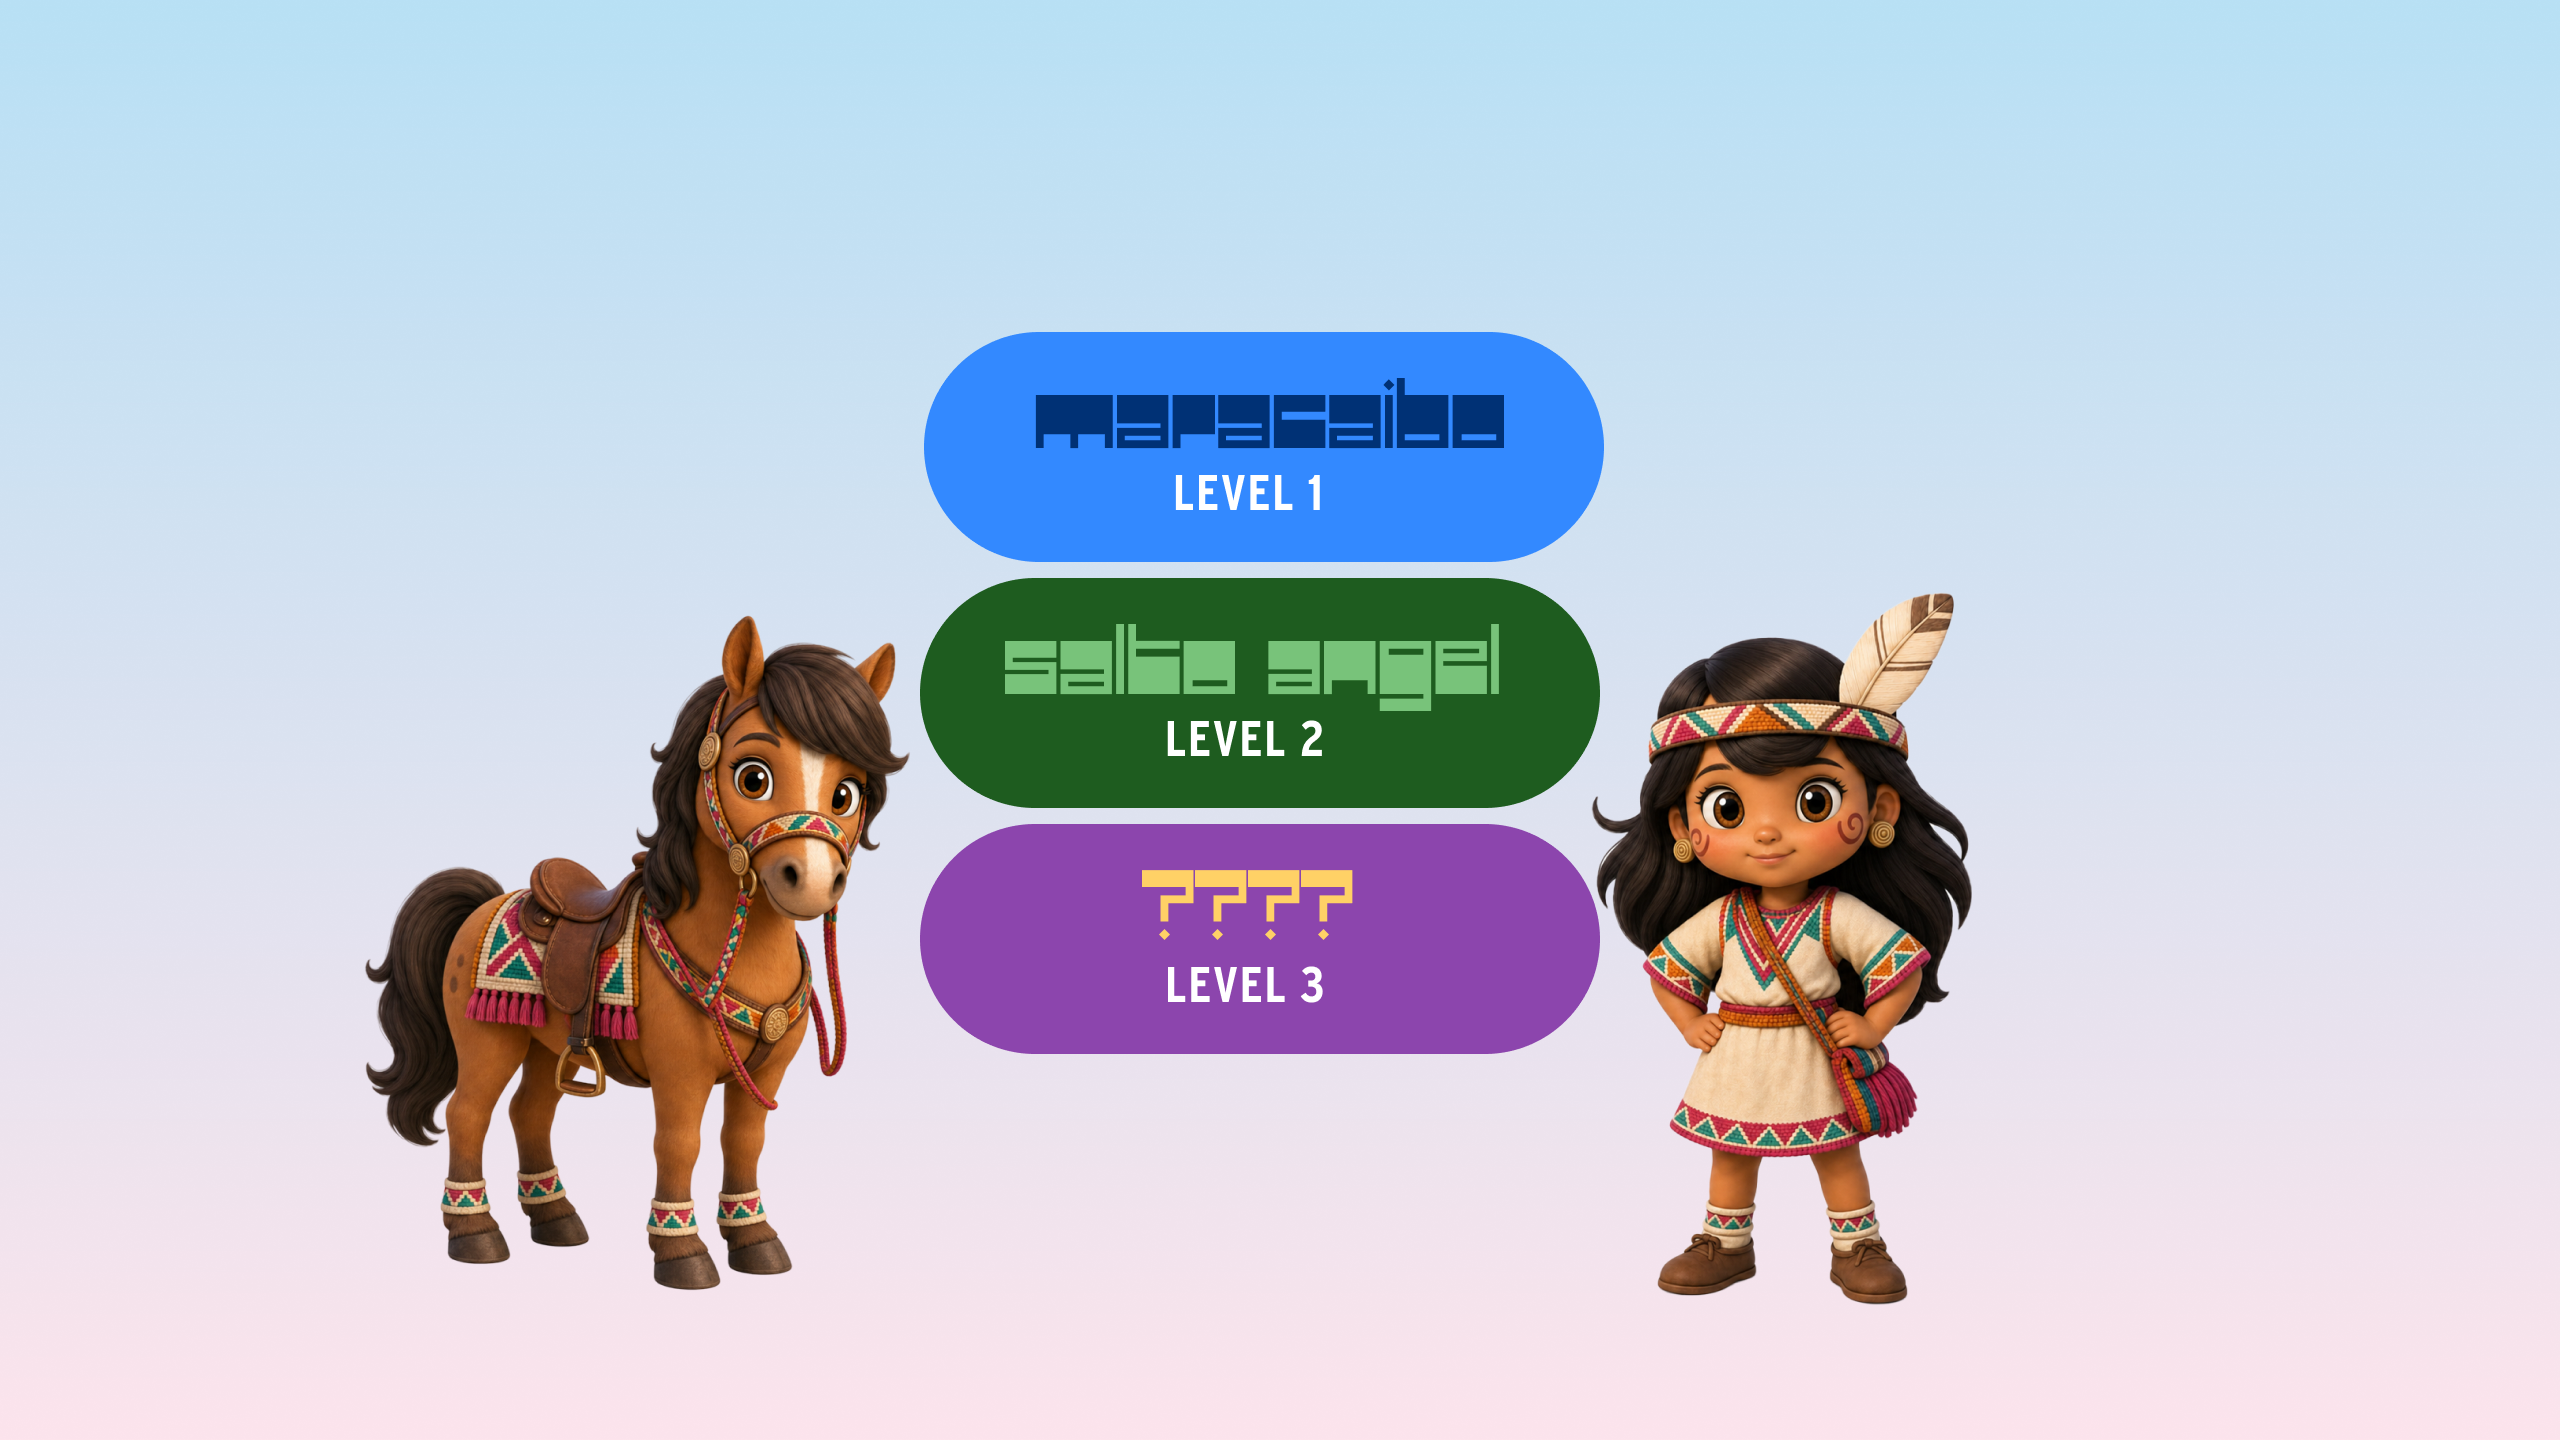
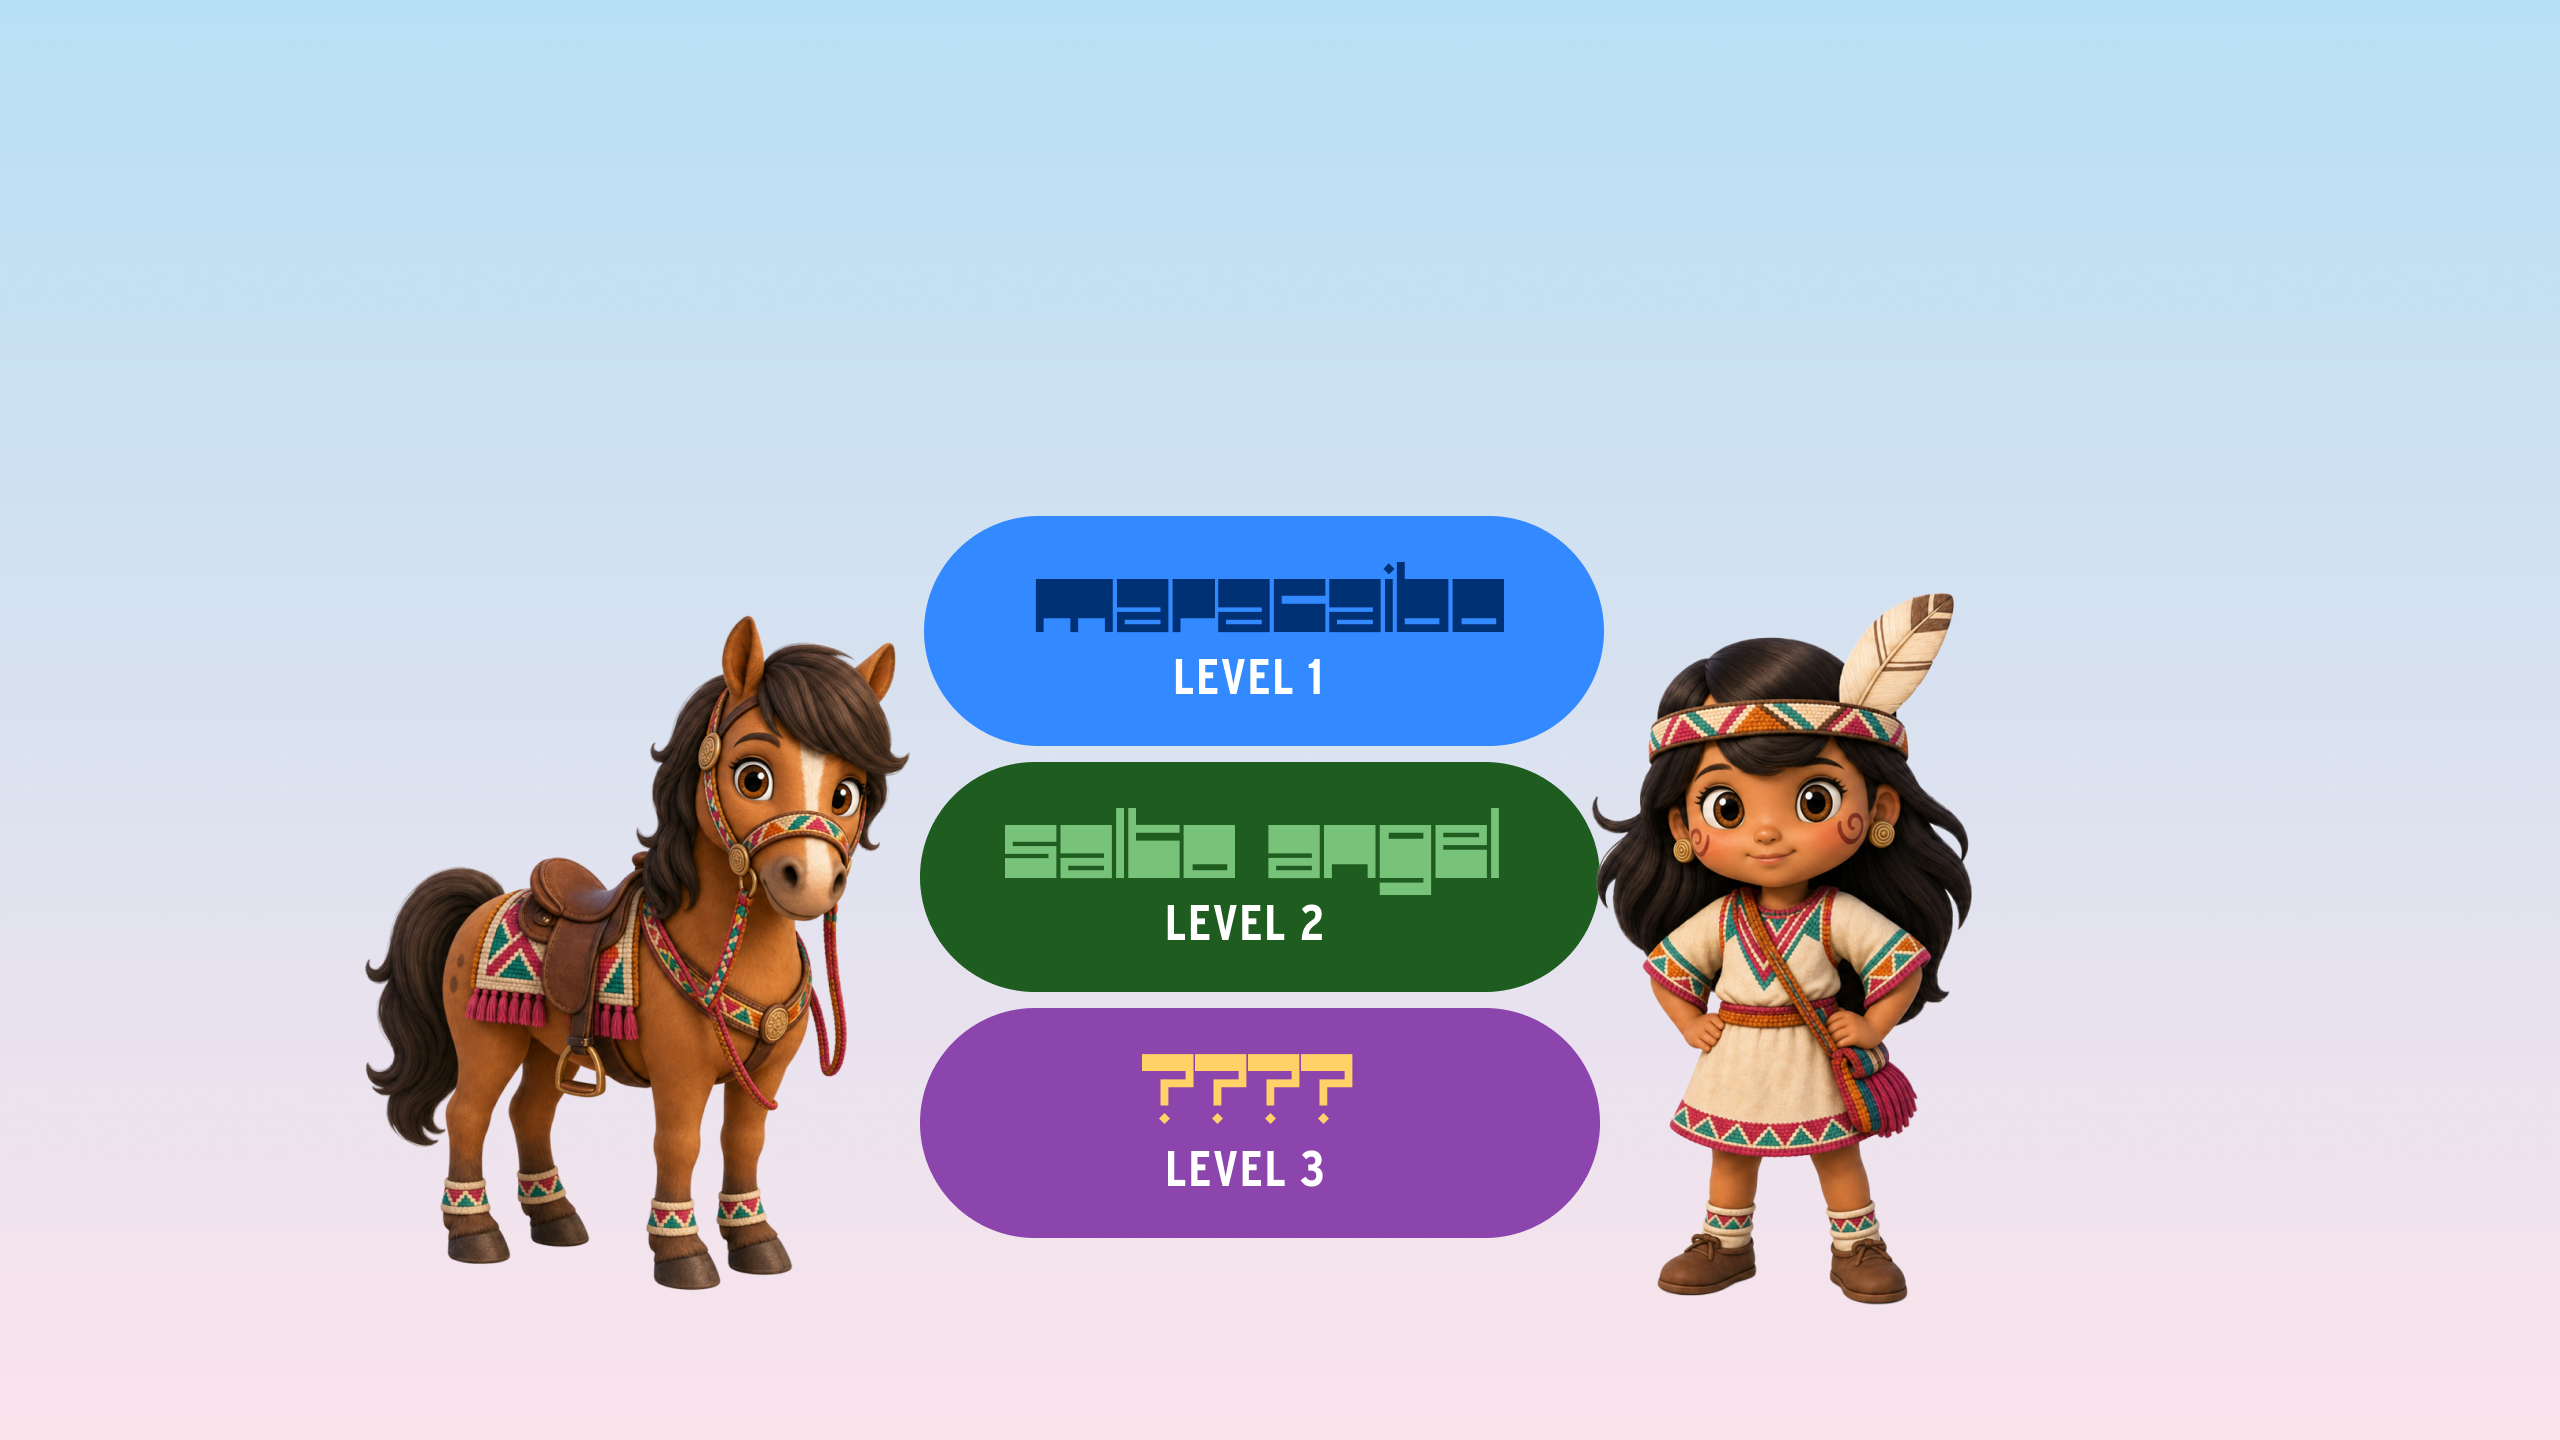
Sync updated splash and Level 2 platform moves from Figma
Re-export M01 with lowered level buttons and refresh hit targets.
Update Level 2 float_16/float_22 positions, markers, and background.

Changed region(s): [[0.3438, 0.2188, 0.625, 0.875]]

diff --git a/src/scenes/MenuScene.ts b/src/scenes/MenuScene.ts
@@ -15,15 +15,15 @@ type MenuButtonConfig = {
 };
 
 const FALLBACK_BUTTONS: MenuButtonConfig[] = [
-  { id: 'level-1', label: 'Maracaibo — Level 1', level: 'level-1', x: 462, y: 166, w: 340, h: 115 },
-  { id: 'level-2', label: 'Salto Ángel — Level 2', level: 'level-2', x: 460, y: 289, w: 340, h: 115 },
+  { id: 'level-1', label: 'Maracaibo — Level 1', level: 'level-1', x: 462, y: 258, w: 340, h: 115 },
+  { id: 'level-2', label: 'Salto Ángel — Level 2', level: 'level-2', x: 460, y: 381, w: 340, h: 115 },
   {
     id: 'level-3',
     label: 'Level 3 — Coming soon',
     level: null,
     comingSoon: true,
     x: 460,
-    y: 412,
+    y: 504,
     w: 340,
     h: 115,
   },

diff --git a/src/config/gameConfig.ts b/src/config/gameConfig.ts
@@ -4,11 +4,11 @@
  */
 export const GAME_CONFIG = {
   /** Bump after Figma asset sync so phones bypass CDN/browser cache */
-  worldAssetVersion: '20260802b',
+  worldAssetVersion: '20260802c',
   characterAssetVersion: '20260705l',
   enemyAssetVersion: '20260705l',
   /** Bump after Figma M01/M03/M04 screen art sync */
-  screenAssetVersion: '20260802c',
+  screenAssetVersion: '20260802d',
   /** Bump after audio asset sync */
   audioAssetVersion: '20260712c',
 
